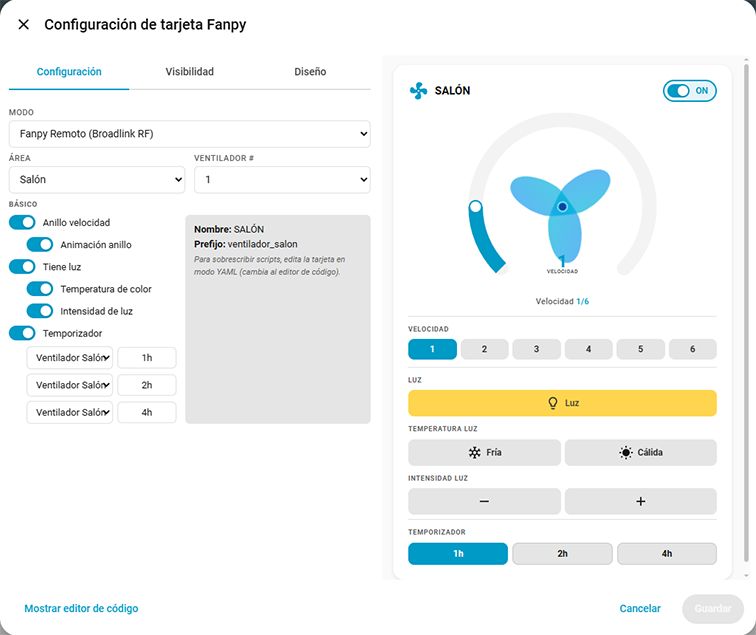
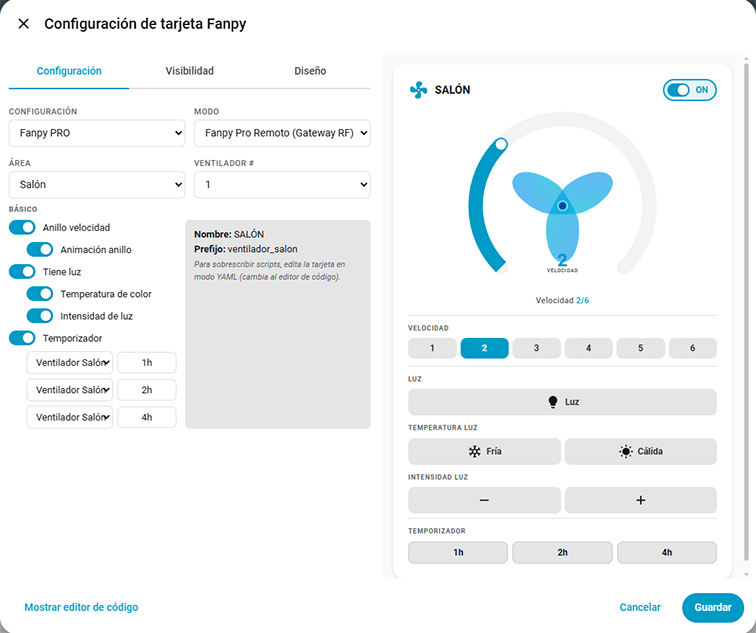
feat: include hybrid rf+broadlink mode

diff --git a/custom_components/fanpypro/__init__.py b/custom_components/fanpypro/__init__.py
@@ -243,6 +243,17 @@ async def _generate_scripts_yaml(hass: HomeAssistant) -> None:
     entries = hass.config_entries.async_entries(DOMAIN)
     codes_dir = hass.config.path("custom_components", CODES_DIR)
 
+    resolved_device_ids = {}
+    for e in entries:
+        d = e.data
+        if d.get(CONF_MODE, CONF_MODE_REMOTE) == CONF_MODE_REMOTE and d.get(CONF_USE_BROADLINK, False):
+            entity_id = d.get(CONF_BROADLINK_DEVICE_ID, "")
+            if entity_id:
+                ent_reg = hass.data['entity_registry']
+                entry_er = ent_reg.async_get(entity_id)
+                if entry_er and entry_er.device_id:
+                    resolved_device_ids[e.entry_id] = entry_er.device_id
+
     def _write():
         blocks = []
         for e in entries:
@@ -252,13 +263,16 @@ async def _generate_scripts_yaml(hass: HomeAssistant) -> None:
             n = d.get(CONF_NAME, p)
 
             if mode == CONF_MODE_REMOTE:
-                gateway_zone = d.get(CONF_GATEWAY_ZONE)
-                if gateway_zone:
-                    block = _build_gateway_scripts_yaml(
-                        codes_dir, p, n, d
-                    )
+                use_broadlink = d.get(CONF_USE_BROADLINK, False)
+                if use_broadlink:
+                    resolved_dev_id = resolved_device_ids.get(e.entry_id)
+                    block = _build_broadlink_scripts_yaml(p, n, d, resolved_dev_id)
                 else:
-                    block = ""
+                    gateway_zone = d.get(CONF_GATEWAY_ZONE)
+                    if gateway_zone:
+                        block = _build_gateway_scripts_yaml(codes_dir, p, n, d)
+                    else:
+                        block = ""
             else:
                 block = ""
 
@@ -394,3 +408,77 @@ def _generate_command_block(
     block.append("")
 
     return "\n".join(block)
+
+
+def _build_broadlink_scripts_yaml(
+    prefix: str, name: str, data: dict, resolved_device_id: str | None = None,
+) -> str:
+    ns = int(data.get(CONF_NUM_SPEEDS, 6))
+    has_light = data.get(CONF_HAS_LIGHT, False)
+    has_temp = data.get(CONF_HAS_LIGHT_TEMPERATURE, False)
+    has_intensity = data.get(CONF_HAS_LIGHT_INTENSITY, False)
+
+    bd_id = data.get(CONF_BROADLINK_DEVICE_ID, "")
+    rd = data.get(CONF_REMOTE_DEVICE, prefix)
+
+    cmd_on = data.get(CONF_COMMAND_ON, DEFAULT_COMMAND_ON)
+    cmd_off = data.get(CONF_COMMAND_OFF, DEFAULT_COMMAND_OFF)
+    cmd_luz_on = data.get(CONF_COMMAND_LUZ_ON, DEFAULT_COMMAND_LUZ_ON)
+    cmd_luz_off = data.get(CONF_COMMAND_LUZ_OFF, DEFAULT_COMMAND_LUZ_OFF)
+    cmd_luz_calida = data.get(CONF_COMMAND_LUZ_CALIDA, DEFAULT_COMMAND_LUZ_CALIDA)
+    cmd_luz_fria = data.get(CONF_COMMAND_LUZ_FRIA, DEFAULT_COMMAND_LUZ_FRIA)
+    cmd_int_alta = data.get(CONF_COMMAND_INTENSIDAD_ALTA, DEFAULT_COMMAND_INTENSIDAD_ALTA)
+    cmd_int_baja = data.get(CONF_COMMAND_INTENSIDAD_BAJA, DEFAULT_COMMAND_INTENSIDAD_BAJA)
+
+    def _target_block():
+        if resolved_device_id:
+            return f"      device_id: {resolved_device_id}"
+        if bd_id:
+            return f"      entity_id: {bd_id}"
+        return "      entity_id: YOUR_BROADLINK_ENTITY_ID"
+
+    def _append_script(action_name, display_name, command):
+        lines.append(f"{prefix}_{action_name}:")
+        lines.append("  sequence:")
+        lines.append("  - action: remote.send_command")
+        lines.append("    metadata: {}")
+        lines.append("    data:")
+        lines.append("      num_repeats: 1")
+        lines.append("      delay_secs: 0.4")
+        lines.append("      hold_secs: 0")
+        lines.append(f"      device: {rd}")
+        lines.append(f"      command: '{command}'")
+        lines.append("    target:")
+        lines.append(_target_block())
+        lines.append(f"  alias: \"{display_name}\"")
+        lines.append("  description: ''")
+        lines.append("")
+
+    lines = []
+    lines.append(f"# Prefix: {prefix}")
+    lines.append(f"# Name: {name}")
+    lines.append(f"# Device ID: {bd_id}")
+    lines.append("")
+
+    _append_script("power_on", f"{name} Power ON", cmd_on)
+    _append_script("power_off", f"{name} Power OFF", cmd_off)
+
+    if has_light:
+        _append_script("luz_on", f"{name} Luz ON", cmd_luz_on)
+        _append_script("luz_off", f"{name} Luz OFF", cmd_luz_off)
+
+        if has_temp:
+            _append_script("luz_calida", f"{name} Luz Cálida", cmd_luz_calida)
+            _append_script("luz_fria", f"{name} Luz Fría", cmd_luz_fria)
+
+        if has_intensity:
+            _append_script("intensidad_alta", f"{name} Intensidad Alta", cmd_int_alta)
+            _append_script("intensidad_baja", f"{name} Intensidad Baja", cmd_int_baja)
+
+    if ns > 1:
+        for i in range(1, ns + 1):
+            key = f"{CONF_COMMAND_VELOCIDAD_PREFIX}_{i}"
+            cmd = data.get(key, f"{DEFAULT_COMMAND_VELOCIDAD_PREFIX}{i}")
+            _append_script(f"velocidad_{i}", f"{name} Velocidad {i}", cmd)
+
+    return "\n".join(lines)

diff --git a/custom_components/fanpypro/config_flow.py b/custom_components/fanpypro/config_flow.py
@@ -129,6 +129,49 @@ def _build_schemas(
             ),
         })
 
+    if step == "helpers_broadlink_choice":
+        return vol.Schema({
+            vol.Required(CONF_USE_BROADLINK, default=data.get(CONF_USE_BROADLINK, "no")): selector.SelectSelector(
+                selector.SelectSelectorConfig(
+                    options=[
+                        {"value": "no", "label": "No"},
+                        {"value": "yes", "label": "Sí"},
+                    ],
+                    mode=selector.SelectSelectorMode.DROPDOWN,
+                )
+            ),
+        })
+
+    if step == "helpers_broadlink_config":
+        schema = {
+            vol.Required(CONF_BROADLINK_DEVICE_ID, default=data.get(CONF_BROADLINK_DEVICE_ID, "")): selector.EntitySelector(
+                selector.EntitySelectorConfig(domain="remote"),
+            ),
+            vol.Required(CONF_REMOTE_DEVICE, default=data.get(CONF_REMOTE_DEVICE, data.get(CONF_PREFIX, ""))): selector.TextSelector(),
+            vol.Required(CONF_COMMAND_ON, default=data.get(CONF_COMMAND_ON, DEFAULT_COMMAND_ON)): selector.TextSelector(),
+            vol.Required(CONF_COMMAND_OFF, default=data.get(CONF_COMMAND_OFF, DEFAULT_COMMAND_OFF)): selector.TextSelector(),
+        }
+        if data.get(CONF_HAS_LIGHT, False):
+            schema.update({
+                vol.Required(CONF_COMMAND_LUZ_ON, default=data.get(CONF_COMMAND_LUZ_ON, DEFAULT_COMMAND_LUZ_ON)): selector.TextSelector(),
+                vol.Required(CONF_COMMAND_LUZ_OFF, default=data.get(CONF_COMMAND_LUZ_OFF, DEFAULT_COMMAND_LUZ_OFF)): selector.TextSelector(),
+            })
+            if data.get(CONF_HAS_LIGHT_TEMPERATURE, False):
+                schema.update({
+                    vol.Required(CONF_COMMAND_LUZ_CALIDA, default=data.get(CONF_COMMAND_LUZ_CALIDA, DEFAULT_COMMAND_LUZ_CALIDA)): selector.TextSelector(),
+                    vol.Required(CONF_COMMAND_LUZ_FRIA, default=data.get(CONF_COMMAND_LUZ_FRIA, DEFAULT_COMMAND_LUZ_FRIA)): selector.TextSelector(),
+                })
+            if data.get(CONF_HAS_LIGHT_INTENSITY, False):
+                schema.update({
+                    vol.Required(CONF_COMMAND_INTENSIDAD_ALTA, default=data.get(CONF_COMMAND_INTENSIDAD_ALTA, DEFAULT_COMMAND_INTENSIDAD_ALTA)): selector.TextSelector(),
+                    vol.Required(CONF_COMMAND_INTENSIDAD_BAJA, default=data.get(CONF_COMMAND_INTENSIDAD_BAJA, DEFAULT_COMMAND_INTENSIDAD_BAJA)): selector.TextSelector(),
+                })
+        for i in range(1, num_speeds + 1):
+            key = f"{CONF_COMMAND_VELOCIDAD_PREFIX}_{i}"
+            default = f"{DEFAULT_COMMAND_VELOCIDAD_PREFIX}{i}"
+            schema[vol.Required(key, default=data.get(key, default))] = selector.TextSelector()
+        return vol.Schema(schema)
+
     return vol.Schema({})
 
 
@@ -282,13 +325,35 @@ class FanpyProConfigFlow(config_entries.ConfigFlow, domain=DOMAIN):
     async def async_step_helpers_gateway(self, user_input=None):
         if user_input is not None:
             self._data.update(user_input)
+            return await self.async_step_helpers_broadlink_choice()
+
+        gateways = await self.hass.async_add_executor_job(_scan_gateways, self.hass)
+        schema = _build_schemas(self.hass, self._data, step="helpers_gateway", gateways=gateways)
+        return self.async_show_form(step_id="helpers_gateway", data_schema=schema)
+
+    async def async_step_helpers_broadlink_choice(self, user_input=None):
+        if user_input is not None:
+            self._data[CONF_USE_BROADLINK] = user_input[CONF_USE_BROADLINK] == "yes"
+            if self._data[CONF_USE_BROADLINK]:
+                return await self.async_step_helpers_broadlink_config()
             return self.async_create_entry(
                 title=self._data[CONF_NAME],
                 data=self._data,
             )
 
-        gateways = await self.hass.async_add_executor_job(_scan_gateways, self.hass)
-        schema = _build_schemas(self.hass, self._data, step="helpers_gateway", gateways=gateways)
-        return self.async_show_form(step_id="helpers_gateway", data_schema=schema)
+        schema = _build_schemas(self.hass, self._data, step="helpers_broadlink_choice")
+        return self.async_show_form(step_id="helpers_broadlink_choice", data_schema=schema)
+
+    async def async_step_helpers_broadlink_config(self, user_input=None):
+        if user_input is not None:
+            self._data.update(user_input)
+            return self.async_create_entry(
+                title=self._data[CONF_NAME],
+                data=self._data,
+            )
+
+        num_speeds = self._data.get(CONF_NUM_SPEEDS, 6)
+        schema = _build_schemas(self.hass, self._data, step="helpers_broadlink_config", num_speeds=num_speeds)
+        return self.async_show_form(step_id="helpers_broadlink_config", data_schema=schema)
 
 

diff --git a/custom_components/fanpypro/const.py b/custom_components/fanpypro/const.py
@@ -22,6 +22,30 @@ CONF_FAN_NUMBER = "fan_number"
 
 CONF_GATEWAY_ZONE = "gateway_zone"
 
+CONF_USE_BROADLINK = "use_broadlink"
+CONF_BROADLINK_DEVICE_ID = "broadlink_device_id"
+CONF_REMOTE_DEVICE = "remote_device"
+
+CONF_COMMAND_ON = "command_on"
+CONF_COMMAND_OFF = "command_off"
+CONF_COMMAND_LUZ_ON = "command_luz_on"
+CONF_COMMAND_LUZ_OFF = "command_luz_off"
+CONF_COMMAND_LUZ_CALIDA = "command_luz_calida"
+CONF_COMMAND_LUZ_FRIA = "command_luz_fria"
+CONF_COMMAND_INTENSIDAD_ALTA = "command_intensidad_alta"
+CONF_COMMAND_INTENSIDAD_BAJA = "command_intensidad_baja"
+CONF_COMMAND_VELOCIDAD_PREFIX = "command_velocidad"
+
+DEFAULT_COMMAND_ON = "on"
+DEFAULT_COMMAND_OFF = "off"
+DEFAULT_COMMAND_LUZ_ON = "luz"
+DEFAULT_COMMAND_LUZ_OFF = "luz"
+DEFAULT_COMMAND_LUZ_CALIDA = "luz_calida"
+DEFAULT_COMMAND_LUZ_FRIA = "luz_fria"
+DEFAULT_COMMAND_INTENSIDAD_ALTA = "intensidad_alta"
+DEFAULT_COMMAND_INTENSIDAD_BAJA = "intensidad_baja"
+DEFAULT_COMMAND_VELOCIDAD_PREFIX = "velocidad"
+
 MAX_SPEEDS = 10
 MIN_SPEEDS = 1
 

diff --git a/README.md b/README.md
@@ -17,8 +17,9 @@ Fanpy Pro is the **backend companion** for the Fanpy Card. While the card provid
 
 ## Features
 
-- ✅ **Multi-step setup wizard** — area selection, mode choice, light/features toggles, gateway configuration
+- ✅ **Multi-step setup wizard** — area selection, mode choice, light/features toggles, gateway configuration, optional Broadlink transmitter setup
 - ✅ **Two integration modes** — Remote (Gateway RF) and Direct (native `switch.*` / `light.*` entities)
+- ✅ **Hybrid RF+Broadlink mode** — combine an ESP32+CC1101 gateway (receiver) with a Broadlink device (transmitter) for reliable code transmission
 - ✅ **Automatic entity creation** — (Remote): `fan.*` (power + speed), `light.*` (light), `select.*` (speed selector + timer count)
 - ✅ **Automatic entity creation** — (Direct): `select.*` only (speed selector + timer count) — fan/light entities managed externally
 - ✅ **State persistence** — entities restore their last state after HA restart (power, speed, light)
@@ -84,6 +85,11 @@ Install using HACS before the integration is added to the default HACS repositor
 - **Step 5 -- Light Features** (if has light): Toggle color temperature and brightness controls
 - **Step 6 -- Timer**: Select the number of timers (0-3)
 - **Step 7 -- Gateway**: Select the RF gateway (e.g. **Salon**, **Cocina**, **Pasillo**). The dropdown is populated from files matching `gateway_*_codes.yaml` in the `fanpypro_codes/` directory.
+- **Step 8 -- Transmitter**: Choose whether to use the **RF gateway** (ESP32+CC1101) or a **Broadlink device** as transmitter:
+  - **No (default)**: Scripts use `esphome.*_transmit_rc_switch` via the CC1101
+  - **Sí**: A new form opens to configure a Broadlink device (select entity `remote.*`, remote name, and the command codes for each function). Scripts use `remote.send_command` via the Broadlink instead
+
+> **Note**: Even when using Broadlink as transmitter, the RF gateway continues to **receive** signals from the physical remote. This keeps the HA entities synchronized when you use the physical remote.
 
 This mode creates `fan.fanpypro_*`, `light.fanpypro_*`, `select.fanpypro_*` entities plus a **Resync Luz** button (only if the fan has light). Scripts are **auto-generated** by the integration into `{custom_components_dir}/fanpypro/generated/scripts.yaml` - no manual script creation needed. Use the card in **Fanpy Remote** mode.
 
@@ -156,18 +162,33 @@ Make sure your `configuration.yaml` includes your scripts:
 script: !include scripts.yaml
 ```
 
-The generated scripts call the ESPHome `transmit_rc_switch` service to send the RF command. Entity state updates are handled by the integration's Python code — scripts only send the RF command.
+The generated scripts use one of two transmission methods depending on your configuration:
+
+- **RF Gateway only** — calls the ESPHome `transmit_rc_switch` service via the CC1101
+- **Broadlink combo** — calls `remote.send_command` via the Broadlink device
+
+Entity state updates are handled by the integration's Python code — scripts only send the RF command. You can combine both methods in the same `scripts.yaml`: some fans can use CC1101 while others use Broadlink.
+
+Make sure the command names match what you learned with `remote.learn_command`. You can test them with `remote.send_command`.
+
+- **Broadlink learn command example:**
+
+  ![Broadlink Remote Learn Command](images/broadlink_remote_learn_command.png)
+
+- **Broadlink send command test example:**
+
+  ![Broadlink Remote Send Command](images/broadlink_remote_send_command.png)
 
 ### How the flow works
 
 When you press a button in the Fanpy Card:
 
-#### Fanpy Remote mode (Gateway RF)
+#### Fanpy Remote mode (Gateway RF only)
 
 ```
 Card -> fan.set_percentage (service)
         -> FanpyProFanEntity updates HA state (is_on, percentage)
-        -> Calls script.{prefix}_velocidad_{n} (RF via ESPHome)
+        -> Calls script.{prefix}_velocidad_{n} (RF via ESPHome CC1101)
         -> Updates select.fanpypro_{prefix}_velocidad to match
 ```
 
@@ -175,7 +196,23 @@ Card -> fan.set_percentage (service)
 Card -> fan.turn_off (service)
         -> FanpyProFanEntity saves last speed, sets is_on=false
         -> Cancels active timers (Python)
-        -> Calls script.{prefix}_power_off (RF via ESPHome)
+        -> Calls script.{prefix}_power_off (RF via ESPHome CC1101)
+```
+
+#### Fanpy Remote mode (Broadlink combo)
+
+```
+Card -> fan.set_percentage (service)
+        -> FanpyProFanEntity updates HA state (is_on, percentage)
+        -> Calls script.{prefix}_velocidad_{n} (RF via Broadlink remote.send_command)
+        -> Updates select.fanpypro_{prefix}_velocidad to match
+```
+
+```
+Card -> fan.turn_off (service)
+        -> FanpyProFanEntity saves last speed, sets is_on=false
+        -> Cancels active timers (Python)
+        -> Calls script.{prefix}_power_off (RF via Broadlink remote.send_command)
 ```
 
 #### Fanpy Direct mode